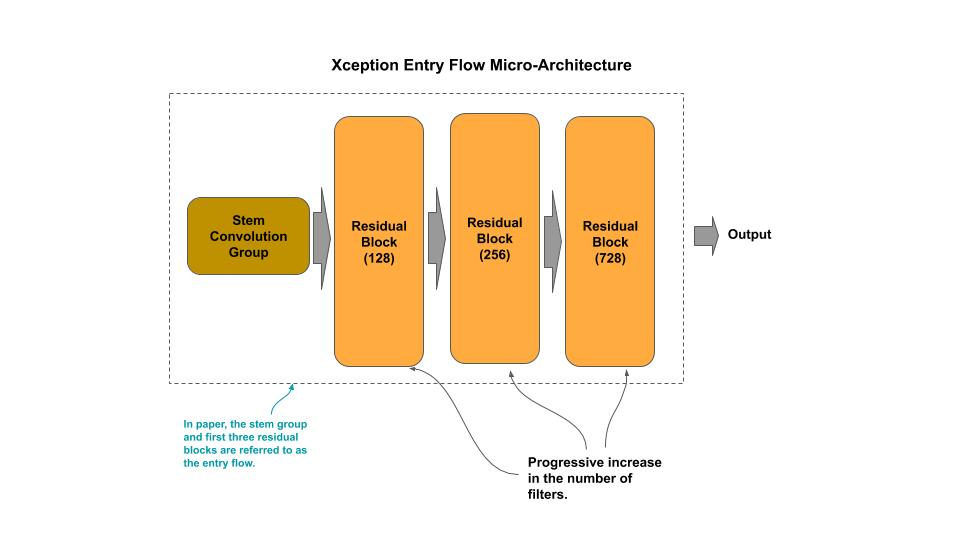
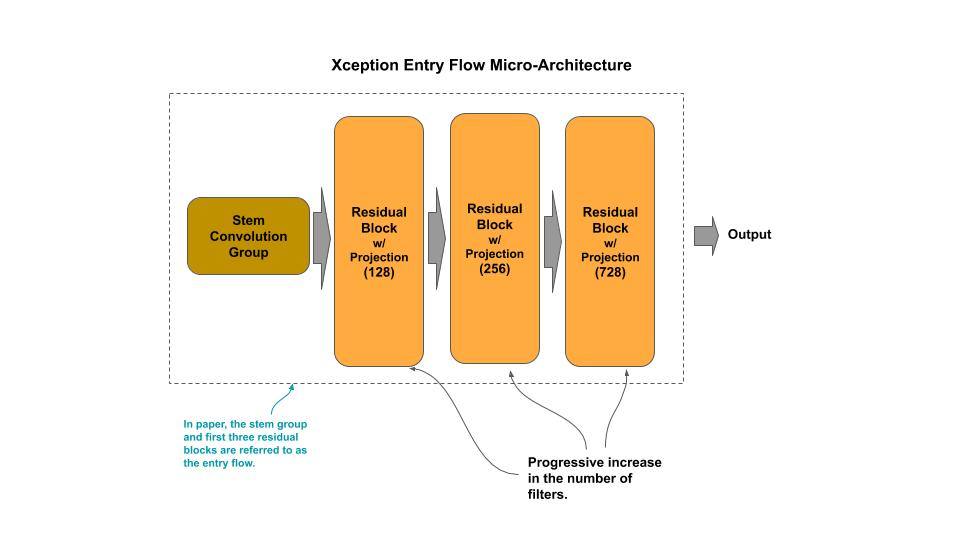
fine tune xception

Changed region(s): [[0.4688, 0.3556, 0.5625, 0.5333], [0.5938, 0.3852, 0.6875, 0.5333], [0.3438, 0.3852, 0.4375, 0.5333]]

diff --git a/zoo/xception/README.md b/zoo/xception/README.md
@@ -17,7 +17,7 @@
 
 ### Entry Flow Block
 
-<img src="block-residual.jpg">
+<img src="block-projection.jpg">
 
 ## Micro-Architecture - Middle Flow
 
